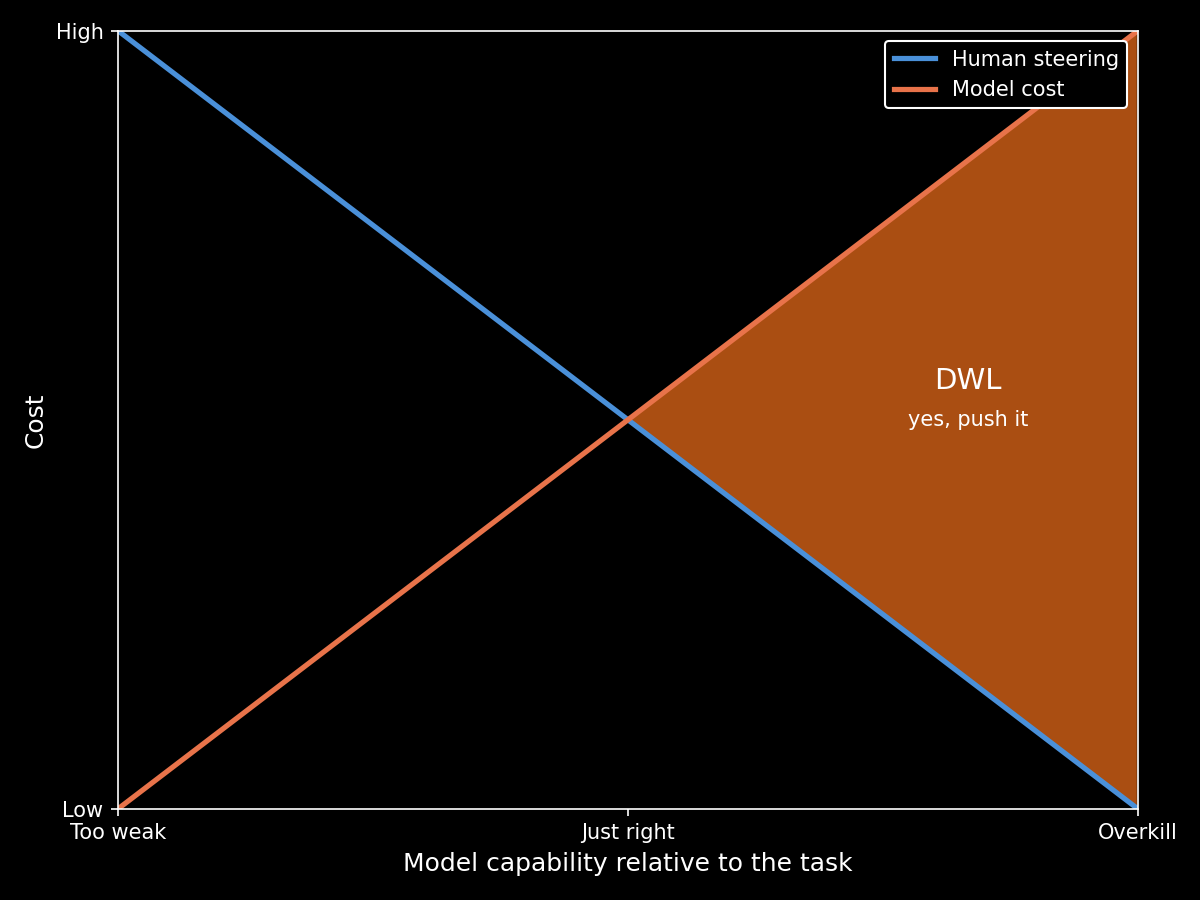
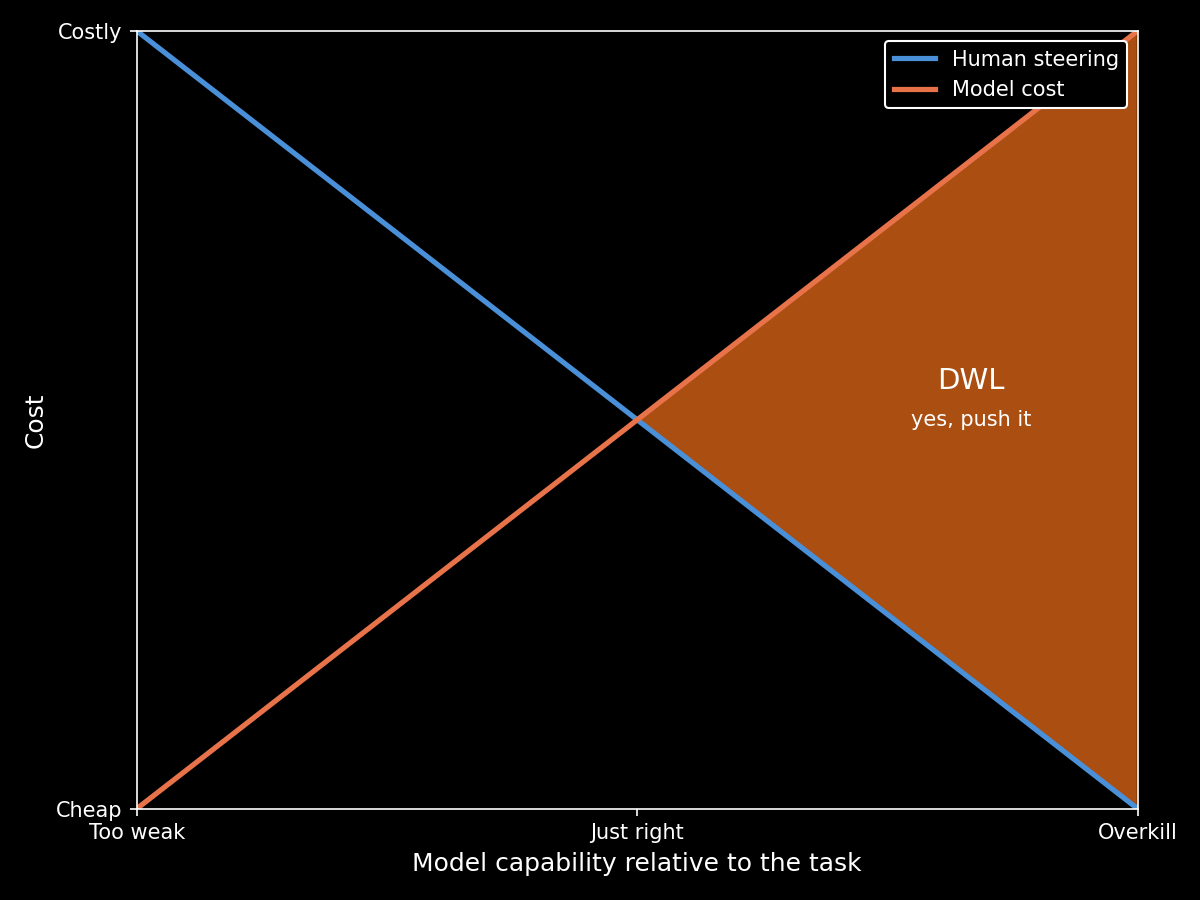
fix some typos, change axis titles, some further thoughts

diff --git a/blog/capabilities/index.html b/blog/capabilities/index.html
@@ -3,7 +3,7 @@
 <head>
     <meta charset="utf-8"/>
     <meta name="viewport" content="width=device-width, initial-scale=1"/>
-    <meta name="source-hash" content="03a15cfab1483d7d"/>
+    <meta name="source-hash" content="13e54250177813ef"/>
     <title>Capabilities</title>
     <script src="/dist/theme.js"></script>
     <script>try { localStorage.setItem('locale', 'en'); } catch (e) {}</script>
@@ -83,7 +83,7 @@
     
     <article id="post-content"><p>I attended an economics class in Berkeley during my freshman year in San Francisco. A friend studying there invited me to go visit. He had to do something through the afternoon and left me in one of the halls. At the time I thought I wanted to do economics, so I was glad to find out one of the lectures in that hall was Berkeley&#39;s microeconomics course, ECON 100A, and decided to attend it during the Spring.</p>
 <p>Ironically, the more I studied economics, the more skeptical I felt about it as a social science. I found its theories too constrained and based on unreasonable assumptions.</p>
-<p>It was nevertheless a fun subject to study. I have hundreds of pages from notes I took on an oversized drawing tablet plugged into my computer that must&#39;ve looked the silliest set-up of anyone in the hall. </p>
+<p>It was nevertheless a fun subject to study. I have hundreds of pages of notes I took on an oversized drawing tablet plugged into my computer that must&#39;ve looked the silliest set-up of anyone in the hall. </p>
 <p>My favorite concept I learned in that class is dead-weight loss, or DWL for brevity. Feel free to skip this section if you&#39;re already familiarized (<a href="#after-dwl">click here</a>). </p>
 <p>Imagine you have a seller - say, a business - and many buyers that want to buy a good from that seller. We assume the seller wants to earn the largest amount of money possible and there are many buyers that can each afford the product at a different price point. </p>
 <p>How does that good get priced? Some buyers might be willing to pay more for it than others, so the seller could set prices high. This seems reasonable, but if 8 buyers were able to pay $12 each while 2 were able to pay $40, setting the price of the good to $40 is a <em>net</em> loss at $80, as pricing it at $12 would net $96, leaving a $16+ difference on the table. Not to mention the social effects making the good available to more people might have<sup><a id="footnote-ref-1" href="#footnote-1" data-footnote-ref aria-describedby="footnote-label">1</a></sup>. </p>
@@ -109,46 +109,52 @@
 <p>Ok, so why am I writing about DWL? I see some parallels between ideas in DWL Minimization (the use of calculus to find points of equilibria for different supply and demand curves) and the current paradigms of coding agents. </p>
 <p>I work extensively with coding agents. Almost every day I&#39;m prompting, reviewing code, etc<sup><a id="footnote-ref-3" href="#footnote-3" data-footnote-ref aria-describedby="footnote-label">3</a></sup>. </p>
 <p>I&#39;ve observed an inverse relationship between the skill needed by a human to accomplish a task and how good a model is. </p>
-<p>For example, if you&#39;re working with a frontier model, it&#39;s generally sufficient to ask for what you want. &quot;Fix this bug&quot;, &quot;Add X feature&quot;, etc. Working with small models (in the 10-100B parameters range) requires hand holding. Prompts need to be longer and specific because otherwise the models get lost in thought and churn their context windows before doing anything useful.</p>
+<p>For example, if you&#39;re working with a frontier model, it&#39;s generally sufficient to ask for what you want. &quot;Fix this bug&quot;, &quot;Add X feature&quot;, etc. Working with small models (in the 10-100B parameter range) requires handholding. Prompts need to be longer and specific because otherwise the models get lost in thought and churn their context windows before doing anything useful.</p>
 <p>In other words: when a model is bad/limited at a task, humans supplement its deficiency with their own skills and steering. This is currently true for any task that frontier models aren&#39;t good at or when using handicapped models. It&#39;s part of why open-weight models aren&#39;t as big of a threat as they may seem in cybersecurity and biology. You still need knowledgeable humans to get the most out of them, at least for now.  </p>
+<p>This relationship also means less-skilled individuals can use the models to do work that previously required extensive training and experience, in the cases where human input is minimal or closer to supervision than steering. </p>
+<p><a href="https://cendyne.dev/posts/2026-10-11-fable-took-my-jorb.html">This</a> blog post by a developer laid off due to AI describes how their company chose to do layoffs because <em>&quot;AI assistance raised the capability of work for the less passionate, less experienced, and less costly workforce&quot;</em>. </p>
+<p>This isn&#39;t a new phenomenon. It&#39;s similar to how sewing machinery made jobs traditionally done by hand accessible to anyone, anywhere, who knew how to operate it, permitting offshoring in the &#39;60s. </p>
+<p>It&#39;s the reason why hiring for engineering jobs is shifting from being technically focused to highlighting traditionally undervalued skills, as I discuss toward the end of the post.</p>
 <p>We can map these concepts onto the first graph if we swap the Demand curve with Human steering and the Supply curve with Model cost. I assume more capable models are more expensive.</p>
+<p>When I write &quot;cost,&quot; I&#39;m talking about the compute needed to run an instance of a model. Bigger models are generally better and require more compute to run. </p>
+<p>I&#39;ll call it &quot;cost&quot; in the blog because it&#39;s easier to digest. Do note that compute and monetary cost will map one-to-one when the labs stop subsidizing tokens<sup><a id="footnote-ref-4" href="#footnote-4" data-footnote-ref aria-describedby="footnote-label">4</a></sup>. The plots assume they map one-to-one. </p>
 <p>The x-axis represents how capable a model is relative to the task: at the left, the model is too weak for it and cheap. At the right, it&#39;s overkill and expensive. The y-axis represents what you pay. The height of the human line is how much steering the model needs from you, as the height of the model line is what the model costs. The more capable the model, the less steering it needs and the more it costs.  </p>
 <p><img src="/blog/assets/figures/en/human-model-curves.png" alt="Human steering and model cost plotted against how capable the model is relative to the task." title="Human Steering and Model Cost"></p>
-<p>A simple example to illustrate DWL in this graph is when frontier models are used for trivial work that a smaller model could do. E.g., changing the copy in a page or running trivial git commands (when was the last time you prompted &#39;yes, push it&#39;?). </p>
+<p>A simple example to illustrate DWL in this graph is when frontier models are used for trivial work that a smaller model could do. E.g., changing the text on a page or running trivial git commands (when was the last time you prompted &#39;yes, push it&#39;?). </p>
 <p><img src="/blog/assets/figures/en/human-model-overreliance.png" alt="Deadweight loss on the right side of the human steering and model cost graph, where a frontier model is used for a trivial task." title="Deadweight Loss From an Overpowered Model"></p>
 <p>The economic argument against this is obvious: you&#39;re using frontier tokens for trivial tasks. Ideally, you&#39;d want to save the cost.</p>
-<p>The practical argument is that if token spend wasn&#39;t a concern, it would probably be faster if you used a smaller model. Like if Cursor&#39;s Composer did it rather than have Astra think for a minute. </p>
-<p>And even if your very smart model was ultra fast, that is expensive right now, so the economical argument still holds: others <em>could</em> do the same thing just as fast for cheaper if we had the systems to transfer context efficiently and on the spot.</p>
+<p>The practical argument is that if token spend wasn&#39;t a concern, it would probably be faster if you used a smaller model. Like if Cursor&#39;s Composer did it in 10 seconds rather than have Astra think for a minute. </p>
+<p>Even if your smart model was ultra fast, that is very expensive right now, so the economic argument still holds: others <em>could</em> do the same thing just as fast for cheaper if we had the systems to transfer context efficiently and on the spot. It&#39;s irrational not to save the cost (unfortunately, humans are <em>very</em> irrational).</p>
 <p>I see this mattering in the short to medium term but not the long term. </p>
-<p>When token subsidies stop, a system to auto-route prompts and tasks will become valuable to save unnecessary spending and time. Both for employees using AI and systems within companies that are heavily token-subsidized<sup><a id="footnote-ref-4" href="#footnote-4" data-footnote-ref aria-describedby="footnote-label">4</a></sup>. </p>
+<p>When token subsidies stop, a system to auto-route prompts and tasks will become valuable to save unnecessary spending and time. Both for employees using AI and systems within companies that are heavily token-subsidized<sup><a id="footnote-ref-5" href="#footnote-5" data-footnote-ref aria-describedby="footnote-label">5</a></sup>. </p>
 <p>Long-term, I expect frontier intelligence to become too cheap to meter and very fast. If the labs maintain token subsidies until that happens, it&#39;ll be less of an issue. </p>
-<p>We&#39;ve seen this to be true empirically when labs release smaller versions of their frontier models (Fable, GPT 6.1 Sol) that are similarly capable for much cheaper. </p>
-<p>I still think a &quot;DWL-optimized harness&quot; will be useful when intelligence diffuses to the economy and token usage grows by many magnitudes. Most tasks will be done for nickles, if the infrastructure enables it. I see three technical challenges in the way:</p>
+<p>We&#39;ve seen this to be true empirically when labs release smaller versions of their frontier models (Fable from Mythos, GPT 6.1 Sol from Astra) that are similarly capable for cheaper. </p>
+<p>I still think a &quot;DWL-optimized harness&quot; will be useful while intelligence diffuses to the economy and token usage grows by many orders of magnitude. It will make most tasks near free, fast, runnable on edge hardware<sup><a id="footnote-ref-6" href="#footnote-6" data-footnote-ref aria-describedby="footnote-label">6</a></sup>, and routable to the cloud when necessary. I see three technical challenges in the way:</p>
 <ul>
 <li>Transferring context efficiently: how to transfer context between models at as close to zero cost and latency as possible. This is important for individual tasks and threads.</li>
-<li>Parallelism: if many models are doing many tasks, how can inference providers maximize GPU utilization and KV Cache / model weights offloading and reloading so every watt of compute is utilized constantly.</li>
+<li>Parallelism: if many models are doing many tasks, how can inference engines maximize GPU utilization and KV Cache / model weights offloading and reloading so every watt of compute is utilized constantly.</li>
 <li>Model Profiling: you don&#39;t need to route requests each time if you already know what models sit at equilibria. To my knowledge, there isn&#39;t an all-purpose toolbench to do this yet.</li>
 </ul>
 <p>I expect that while intelligence is subsidized, companies and individuals will keep using frontier models because it feels like the safe choice and requires less steering. Budget-conscious organizations will make their own evals and perhaps even RL small models on them (like <a href="https://x.com/RampLabs/status/2052447438795833506">Ramp</a> did). </p>
-<p>But to diffuse AI into the wider economy, much work needs to be done on simple to use optimizers that small and medium sized organizations can use to save on their token spend, both for individuals within an organization and for specific tasks. </p>
-<p>Paraphrased: Jev might be very cheap but your average store clerk or non-profit worker isn&#39;t gonna get an API key and make an eval to see if it beats Astra at their classification task. Hence the need for diffusion companies.  </p>
-<p>In the graph, the equilibria makes sense if you think about it as the model with the best speed, price, and intelligence for the task. Getting there takes human effort: setting up the infrastructure and evals to find that model (both pre-selecting it or changing it at runtime). Whereas using a frontier model avoids you the work but costs a lot.</p>
+<p>But to diffuse AI into the wider economy, much work needs to be done on simple-to-use optimizers that small and medium-sized organizations can use to save on their token spend, both for individuals within an organization and for specific tasks. </p>
+<p>Paraphrased: Jev might be very cheap but your average store clerk or non-profit worker isn&#39;t gonna get an API key and make an eval to see if it beats Astra at their classification task. They&#39;d rather press a button or ask their agent and see the results to choose from.</p>
+<p>In the graph, the equilibrium makes sense if you think about it as the model with the best speed, price, and intelligence for the task. Getting there takes human effort: setting up the infrastructure and evals to find that model (both pre-selecting it or changing it at runtime). Whereas using a frontier model saves you the work but costs a lot.</p>
 <p><img src="/blog/assets/figures/en/human-model-equilibrium.png" alt="Equilibrium between human steering and model cost, where the model is just right for the task." title="Equilibrium Between Human Steering and Model Cost"></p>
 <p>I expect this to change with harnesses that auto-route and simpler infrastructure for evaluating and training task-specific models. It is also nice that this is a defined engineering effort. If we get it right once, everyone benefits.</p>
 <p>What about DWL on the left side of the graph?</p>
 <p>I was recently experimenting with the Qwen family of models, running them locally on my computer with Ollama. It was disappointing. They know a lot and can pull off impressive tricks for a small model, but as soon as you throw a real task at them, they blow their context budgets overthinking unnecessary details.</p>
 <p><img src="/blog/assets/figures/en/human-model-underreliance.png" alt="Deadweight loss on the left side of the human steering and model cost graph, where a small model needs heavy human guidance." title="Deadweight Loss From an Underpowered Model"></p>
 <p>I could only get them to do what I wanted by pointing out the exact lines of code they had to look at. I even had to change some code by hand because even though I&#39;d tell them five times in a row to execute the change, it just thought, and thought, until its context overflowed. </p>
-<p>Another dimension the graph doesn&#39;t capture is time<sup><a id="footnote-ref-5" href="#footnote-5" data-footnote-ref aria-describedby="footnote-label">5</a></sup>. It took me considerably longer to finish my project with Qwen because it needed so much handholding. I knew frontier models would&#39;ve been done in way less time. It also doesn&#39;t capture the difference in mental load: it is so much easier to prompt your way through. You don&#39;t really need to think. </p>
+<p>Another dimension the graph doesn&#39;t capture is time<sup><a id="footnote-ref-7" href="#footnote-7" data-footnote-ref aria-describedby="footnote-label">7</a></sup>. It took me considerably longer to finish my project with Qwen because it needed so much handholding. I knew frontier models would&#39;ve been done in way less time. It also doesn&#39;t capture the difference in mental load: it is so much easier to prompt your way through. You don&#39;t really need to think. </p>
 <p>Though, in my case, I chose to work my way through it because I wanted to experiment. In the real world, DWL on the left is visible on tasks that the models aren&#39;t good at <em>yet</em>. The odd finance benchmarks, ML research benchmarks, and computer use tasks. You still need people reviewing and steering the model&#39;s outputs. </p>
-<p>If accuracy can be quantified and the task is economically valuable, they will be conquered eventually, likeliest first at the frontier, shifting to the right. This is true of tasks where labs and startups have an interest to introduce automation. It&#39;s part of the diffusion process. </p>
+<p>If accuracy can be quantified and the task is economically valuable, it will be conquered eventually, likeliest first at the frontier, shifting to the right. This is true of tasks where labs and startups have an interest in introducing automation. It&#39;s part of the diffusion process. </p>
 <p>Last, the analogy doesn&#39;t capture some qualitative aspects of models.</p>
 <p>Like how I&#39;d rather use Claude for anything conversational, or Codex for computer use. It doesn&#39;t capture how people begin to trust that a model will get it right 90% of the time and use it for specific work.</p>
 <p>It discounts qualitative differences in the character of different model lines. This is partly reconciled if we think of the x-axis as a model family, e.g., Haiku being underpowered, Sonnet generally balanced, and Opus often overkill.</p>
 <p>Together, both parts of the graph paint a cohesive story: the frontier will lay the groundwork at the toughest challenges in an expensive, inefficient way, while diffusion makes them economically viable and fast.</p>
 <p>I see two paths going forward for the future of work:</p>
 <ul>
-<li>Skills that can not be optimized against (yet) will become increasingly valuable. E.g., interpersonal communication, relationship building.</li>
+<li>Skills that cannot be optimized against (yet) will become increasingly valuable. E.g., interpersonal communication, relationship building.</li>
 <li>If we do optimize everything optimizable (though I expect this to take a long while), we&#39;ll make different problems for ourselves that 
 require skills outside the scope of optimization (see <a href="https://asteriskmag.com/issues/15/after-work-we-ll-have-each-other">this</a> essay).</li>
 </ul>
@@ -160,16 +166,22 @@ require skills outside the scope of optimization (see <a href="https://asteriskm
 <p>Ideally, each customer would be charged the maximum they can pay. This is referred to as first degree pricing. But often sellers don&#39;t know what that maximum price is, and instead offer many options at different tiers (e.g. 1st class, premium economy, economy) so the buyer chooses for themselves. This is referred to as second degree pricing. Third degree pricing forces customers to segment by making the quality gap between the options large or enforcing tiers (e.g. student discounts). They all aim to extract as much of what the customer can pay for a good from them, which is referred to as their surplus. <a href="#footnote-ref-1" data-footnote-backref aria-label="Back to reference 1">↩</a></p>
 </li>
 <li id="footnote-2">
-<p>Though, it follows similar rules. If you study economics further, I encourage you to learn about the concept of the &quot;invisible hand&quot;. TLDR: markets minimize DWL on their own because inefficient arrangements will get outcompeted or outpriced by an incumbent. But I won&#39;t spoil it for you. Go read!  <a href="#footnote-ref-2" data-footnote-backref aria-label="Back to reference 2">↩</a></p>
+<p>Though, it follows similar rules. If you study economics further, I encourage you to learn about the concept of the &quot;invisible hand&quot;. TLDR: markets minimize DWL on their own because inefficient arrangements will get outcompeted or outpriced by a competitor. But I won&#39;t spoil it for you. Go read!  <a href="#footnote-ref-2" data-footnote-backref aria-label="Back to reference 2">↩</a></p>
 </li>
 <li id="footnote-3">
 <p>1 Billion tokens a day keeps the doctor away.   <a href="#footnote-ref-3" data-footnote-backref aria-label="Back to reference 3">↩</a></p>
 </li>
 <li id="footnote-4">
-<p>How many startups would be scrambling if the labs took away token subsidies today? Seriously. I was spending 6 figures in tokens at a previous startup (in API costs) every month. Had those been billed, it would&#39;ve been like getting my salary paid twice! For a startup this might be OK, but at the scale of large companies or AI-native organizations, this&#39;d be a huge financing issue. Ajeya Cotra talked about this <a href="https://www.youtube.com/watch?v=Z19UEZHJzAg">here</a>. In the future, some money will be directed towards buying API credits or GPUs instead of paying humans because intelligence will be cheaper and faster. <a href="#footnote-ref-4" data-footnote-backref aria-label="Back to reference 4">↩</a></p>
+<p>When the subsidies stop, I expect the rug pull to be similar to what happened when ridesharing apps stopped subsidizing rides and the true price was passed on to consumers. It wasn&#39;t pretty.  <a href="#footnote-ref-4" data-footnote-backref aria-label="Back to reference 4">↩</a></p>
 </li>
 <li id="footnote-5">
-<p>As Naval <a href="https://www.youtube.com/shorts/x-P119dx8xM">said</a>: &#39;waste tokens to save time&#39;. <a href="#footnote-ref-5" data-footnote-backref aria-label="Back to reference 5">↩</a></p>
+<p>How many startups would be scrambling if the labs took away token subsidies today? Seriously. I was spending 6 figures in tokens at a previous startup (in API costs) every month. Had those been billed, it would&#39;ve been like getting my salary paid twice! For a startup this might be OK, but at the scale of large companies or AI-native organizations, this&#39;d be a huge financing issue. Ajeya Cotra talked about this <a href="https://www.youtube.com/watch?v=Z19UEZHJzAg">here</a>. In the future, some money will be directed towards buying API credits or GPUs instead of paying humans because intelligence will be cheaper and faster. <a href="#footnote-ref-5" data-footnote-backref aria-label="Back to reference 5">↩</a></p>
+</li>
+<li id="footnote-6">
+<p>Some early glimpses of inference at the edge are starting to show, as Anthropic detailed in <a href="https://www.anthropic.com/research/self-replicating-ai">this</a> recent report. I expect phones and laptops to do most inference within this decade. <a href="#footnote-ref-6" data-footnote-backref aria-label="Back to reference 6">↩</a></p>
+</li>
+<li id="footnote-7">
+<p>As Naval <a href="https://www.youtube.com/shorts/x-P119dx8xM">said</a>: &#39;waste tokens to save time&#39;. <a href="#footnote-ref-7" data-footnote-backref aria-label="Back to reference 7">↩</a></p>
 </li>
 </ol>
 </section>

diff --git a/blog/assets/code/supply-demand-curves.py b/blog/assets/code/supply-demand-curves.py
@@ -32,7 +32,7 @@ HUMAN_MODEL_EQUILIBRIUM_TEXT = 'Equilibrium: model is just\nright for the task'
 HUMAN_MODEL_X_TICKS = (0, 50, 100)
 HUMAN_MODEL_X_TICK_LABELS = ('Too weak', 'Just right', 'Overkill')
 HUMAN_MODEL_Y_TICKS = (0, 100)
-HUMAN_MODEL_Y_TICK_LABELS = ('Low', 'High')
+HUMAN_MODEL_Y_TICK_LABELS = ('Cheap', 'Costly')
 HUMAN_MODEL_EQUILIBRIUM_TEXT_X = 57
 OVERRELIANCE_AUTONOMY = 100
 OVERRELIANCE_TEXT = 'yes, push it'

diff --git a/blog/posts/capabilities.md b/blog/posts/capabilities.md
@@ -2,7 +2,7 @@ I attended an economics class in Berkeley during my freshman year in San Francis
 
 Ironically, the more I studied economics, the more skeptical I felt about it as a social science. I found its theories too constrained and based on unreasonable assumptions.
 
-It was nevertheless a fun subject to study. I have hundreds of pages from notes I took on an oversized drawing tablet plugged into my computer that must've looked the silliest set-up of anyone in the hall. 
+It was nevertheless a fun subject to study. I have hundreds of pages of notes I took on an oversized drawing tablet plugged into my computer that must've looked the silliest set-up of anyone in the hall. 
 
 My favorite concept I learned in that class is dead-weight loss, or DWL for brevity. Feel free to skip this section if you're already familiarized ([click here](#after-dwl)). 
 
@@ -48,25 +48,37 @@ I work extensively with coding agents. Almost every day I'm prompting, reviewing
 
 I've observed an inverse relationship between the skill needed by a human to accomplish a task and how good a model is. 
 
-For example, if you're working with a frontier model, it's generally sufficient to ask for what you want. "Fix this bug", "Add X feature", etc. Working with small models (in the 10-100B parameters range) requires hand holding. Prompts need to be longer and specific because otherwise the models get lost in thought and churn their context windows before doing anything useful.
+For example, if you're working with a frontier model, it's generally sufficient to ask for what you want. "Fix this bug", "Add X feature", etc. Working with small models (in the 10-100B parameter range) requires handholding. Prompts need to be longer and specific because otherwise the models get lost in thought and churn their context windows before doing anything useful.
 
-In other words: when a model is bad/limited at a task, humans supplement its deficiency with their own skills and steering. This is currently true for any task that frontier models aren't good at or when using handicapped models. It's part of why open-weight models aren't as big of a threat as they may seem in cybersecurity and biology. You still need knowledgeable humans to get the most out of them, at least for now[^4].  
+In other words: when a model is bad/limited at a task, humans supplement its deficiency with their own skills and steering. This is currently true for any task that frontier models aren't good at or when using handicapped models. It's part of why open-weight models aren't as big of a threat as they may seem in cybersecurity and biology. You still need knowledgeable humans to get the most out of them, at least for now.  
+
+This relationship also means less-skilled individuals can use the models to do work that previously required extensive training and experience, in the cases where human input is minimal or closer to supervision than steering. 
+
+[This](https://cendyne.dev/posts/2026-10-11-fable-took-my-jorb.html) blog post by a developer laid off due to AI describes how their company chose to do layoffs because *"AI assistance raised the capability of work for the less passionate, less experienced, and less costly workforce"*. 
+
+This isn't a new phenomenon. It's similar to how sewing machinery made jobs traditionally done by hand accessible to anyone, anywhere, who knew how to operate it, permitting offshoring in the '60s. 
+
+It's the reason why hiring for engineering jobs is shifting from being technically focused to highlighting traditionally undervalued skills, as I discuss toward the end of the post.
 
 We can map these concepts onto the first graph if we swap the Demand curve with Human steering and the Supply curve with Model cost. I assume more capable models are more expensive.
+
+When I write "cost," I'm talking about the compute needed to run an instance of a model. Bigger models are generally better and require more compute to run. 
+
+I'll call it "cost" in the blog because it's easier to digest. Do note that compute and monetary cost will map one-to-one when the labs stop subsidizing tokens[^4]. The plots assume they map one-to-one. 
 
 The x-axis represents how capable a model is relative to the task: at the left, the model is too weak for it and cheap. At the right, it's overkill and expensive. The y-axis represents what you pay. The height of the human line is how much steering the model needs from you, as the height of the model line is what the model costs. The more capable the model, the less steering it needs and the more it costs.  
 
 ![Human steering and model cost plotted against how capable the model is relative to the task.](/blog/assets/figures/en/human-model-curves.png "Human Steering and Model Cost")
 
-A simple example to illustrate DWL in this graph is when frontier models are used for trivial work that a smaller model could do. E.g., changing the copy in a page or running trivial git commands (when was the last time you prompted 'yes, push it'?). 
+A simple example to illustrate DWL in this graph is when frontier models are used for trivial work that a smaller model could do. E.g., changing the text on a page or running trivial git commands (when was the last time you prompted 'yes, push it'?). 
 
 ![Deadweight loss on the right side of the human steering and model cost graph, where a frontier model is used for a trivial task.](/blog/assets/figures/en/human-model-overreliance.png "Deadweight Loss From an Overpowered Model")
 
 The economic argument against this is obvious: you're using frontier tokens for trivial tasks. Ideally, you'd want to save the cost.
 
-The practical argument is that if token spend wasn't a concern, it would probably be faster if you used a smaller model. Like if Cursor's Composer did it rather than have Astra think for a minute. 
+The practical argument is that if token spend wasn't a concern, it would probably be faster if you used a smaller model. Like if Cursor's Composer did it in 10 seconds rather than have Astra think for a minute. 
 
-And even if your very smart model was ultra fast, that is expensive right now, so the economical argument still holds: others *could* do the same thing just as fast for cheaper if we had the systems to transfer context efficiently and on the spot.
+Even if your smart model was ultra fast, that is very expensive right now, so the economic argument still holds: others *could* do the same thing just as fast for cheaper if we had the systems to transfer context efficiently and on the spot. It's irrational not to save the cost (unfortunately, humans are *very* irrational).
 
 I see this mattering in the short to medium term but not the long term. 
 
@@ -74,21 +86,21 @@ When token subsidies stop, a system to auto-route prompts and tasks will become 
 
 Long-term, I expect frontier intelligence to become too cheap to meter and very fast. If the labs maintain token subsidies until that happens, it'll be less of an issue. 
 
-We've seen this to be true empirically when labs release smaller versions of their frontier models (Fable, GPT 6.1 Sol) that are similarly capable for much cheaper. 
+We've seen this to be true empirically when labs release smaller versions of their frontier models (Fable from Mythos, GPT 6.1 Sol from Astra) that are similarly capable for cheaper. 
 
-I still think a "DWL-optimized harness" will be useful when intelligence diffuses to the economy and token usage grows by many magnitudes. Most tasks will be done for nickles, if the infrastructure enables it. I see three technical challenges in the way:
+I still think a "DWL-optimized harness" will be useful while intelligence diffuses to the economy and token usage grows by many orders of magnitude. It will make most tasks near free, fast, runnable on edge hardware[^6], and routable to the cloud when necessary. I see three technical challenges in the way:
 
 - Transferring context efficiently: how to transfer context between models at as close to zero cost and latency as possible. This is important for individual tasks and threads.
-- Parallelism: if many models are doing many tasks, how can inference providers maximize GPU utilization and KV Cache / model weights offloading and reloading so every watt of compute is utilized constantly.
-- Model Profiling: you don't need to route requests each time if you already know what models sit at equilibria. To my knowledge, there isn't an all-purpose toolbench to do this yet. 
+- Parallelism: if many models are doing many tasks, how can inference engines maximize GPU utilization and KV Cache / model weights offloading and reloading so every watt of compute is utilized constantly.
+- Model Profiling: you don't need to route requests each time if you already know what models sit at equilibria. To my knowledge, there isn't an all-purpose toolkit to do this yet. 
 
 I expect that while intelligence is subsidized, companies and individuals will keep using frontier models because it feels like the safe choice and requires less steering. Budget-conscious organizations will make their own evals and perhaps even RL small models on them (like [Ramp](https://x.com/RampLabs/status/2052447438795833506) did). 
 
-But to diffuse AI into the wider economy, much work needs to be done on simple to use optimizers that small and medium sized organizations can use to save on their token spend, both for individuals within an organization and for specific tasks. 
+But to diffuse AI into the wider economy, much work needs to be done on simple-to-use optimizers that small and medium-sized organizations can use to save on their token spend, both for individuals within an organization and for specific tasks. 
 
-Paraphrased: Jev might be very cheap but your average store clerk or non-profit worker isn't gonna get an API key and make an eval to see if it beats Astra at their classification task. Hence the need for diffusion companies.  
+Paraphrased: Jev might be very cheap but your average store clerk or non-profit worker isn't gonna get an API key and make an eval to see if it beats Astra at their classification task. They'd rather press a button or ask their agent and see the results to choose from.
 
-In the graph, the equilibria makes sense if you think about it as the model with the best speed, price, and intelligence for the task. Getting there takes human effort: setting up the infrastructure and evals to find that model (both pre-selecting it or changing it at runtime). Whereas using a frontier model avoids you the work but costs a lot.
+In the graph, the equilibrium makes sense if you think about it as the model with the best speed, price, and intelligence for the task. Getting there takes human effort: setting up the infrastructure and evals to find that model (both pre-selecting it or changing it at runtime). Whereas using a frontier model saves you the work but costs a lot.
 
 ![Equilibrium between human steering and model cost, where the model is just right for the task.](/blog/assets/figures/en/human-model-equilibrium.png "Equilibrium Between Human Steering and Model Cost")
 
@@ -102,11 +114,11 @@ I was recently experimenting with the Qwen family of models, running them locall
 
 I could only get them to do what I wanted by pointing out the exact lines of code they had to look at. I even had to change some code by hand because even though I'd tell them five times in a row to execute the change, it just thought, and thought, until its context overflowed. 
 
-Another dimension the graph doesn't capture is time[^6]. It took me considerably longer to finish my project with Qwen because it needed so much handholding. I knew frontier models would've been done in way less time. It also doesn't capture the difference in mental load: it is so much easier to prompt your way through. You don't really need to think. 
+Another dimension the graph doesn't capture is time[^7]. It took me considerably longer to finish my project with Qwen because it needed so much handholding. I knew frontier models would've been done in way less time. It also doesn't capture the difference in mental load: it is so much easier to prompt your way through. You don't really need to think. 
 
 Though, in my case, I chose to work my way through it because I wanted to experiment. In the real world, DWL on the left is visible on tasks that the models aren't good at *yet*. The odd finance benchmarks, ML research benchmarks, and computer use tasks. You still need people reviewing and steering the model's outputs. 
 
-If accuracy can be quantified and the task is economically valuable, they will be conquered eventually, likeliest first at the frontier, shifting to the right. This is true of tasks where labs and startups have an interest to introduce automation. It's part of the diffusion process. 
+If accuracy can be quantified and the task is economically valuable, it will be conquered eventually, likeliest first at the frontier, shifting to the right. This is true of tasks where labs and startups have an interest in introducing automation. It's part of the diffusion process. 
 
 Last, the analogy doesn't capture some qualitative aspects of models.
 
@@ -117,7 +129,7 @@ It discounts qualitative differences in the character of different model lines. 
 Together, both parts of the graph paint a cohesive story: the frontier will lay the groundwork at the toughest challenges in an expensive, inefficient way, while diffusion makes them economically viable and fast.
 
 I see two paths going forward for the future of work:
-- Skills that can not be optimized against (yet) will become increasingly valuable. E.g., interpersonal communication, relationship building.
+- Skills that cannot be optimized against (yet) will become increasingly valuable. E.g., interpersonal communication, relationship building.
 - If we do optimize everything optimizable (though I expect this to take a long while), we'll make different problems for ourselves that 
 require skills outside the scope of optimization (see [this](https://asteriskmag.com/issues/15/after-work-we-ll-have-each-other) essay).
 
@@ -125,12 +137,14 @@ In either case, we'll be better off from it. It will provide healthcare and educ
 
 [^1]: Ideally, each customer would be charged the maximum they can pay. This is referred to as first degree pricing. But often sellers don't know what that maximum price is, and instead offer many options at different tiers (e.g. 1st class, premium economy, economy) so the buyer chooses for themselves. This is referred to as second degree pricing. Third degree pricing forces customers to segment by making the quality gap between the options large or enforcing tiers (e.g. student discounts). They all aim to extract as much of what the customer can pay for a good from them, which is referred to as their surplus.
 
-[^2]: Though, it follows similar rules. If you study economics further, I encourage you to learn about the concept of the "invisible hand". TLDR: markets minimize DWL on their own because inefficient arrangements will get outcompeted or outpriced by an incumbent. But I won't spoil it for you. Go read! 
+[^2]: Though, it follows similar rules. If you study economics further, I encourage you to learn about the concept of the "invisible hand". TLDR: markets minimize DWL on their own because inefficient arrangements will get outcompeted or outpriced by a competitor. But I won't spoil it for you. Go read! 
 
 [^3]: 1 Billion tokens a day keeps the doctor away.  
 
-[^4]: This also means less-skilled individuals can now do work that previously needed extensive training and experience. [This](https://cendyne.dev/posts/2026-10-11-fable-took-my-jorb.html) blog post by a developer laid off due to AI describes how their company chose to do layoffs because *"AI assistance raised the capability of work for the less passionate, less experienced, and less costly workforce"*. This isn't a new phenomenon. It's similar to how sewing machinery made jobs traditionally done by hand accessible to anyone, anywhere, who knew how to operate it, permitting offshoring in the '60s. It's the reason why hiring for engineering jobs is shifting from being technically focused to highlighting traditionally undervalued skills, as I discuss toward the end of the post.
+[^4]: When the subsidies stop, I expect the rug pull to be similar to what happened when ridesharing apps stopped subsidizing rides and the true price was passed on to consumers. It wasn't pretty. 
 
 [^5]: How many startups would be scrambling if the labs took away token subsidies today? Seriously. I was spending 6 figures in tokens at a previous startup (in API costs) every month. Had those been billed, it would've been like getting my salary paid twice! For a startup this might be OK, but at the scale of large companies or AI-native organizations, this'd be a huge financing issue. Ajeya Cotra talked about this [here](https://www.youtube.com/watch?v=Z19UEZHJzAg). In the future, some money will be directed towards buying API credits or GPUs instead of paying humans because intelligence will be cheaper and faster.
 
-[^6]: As Naval [said](https://www.youtube.com/shorts/x-P119dx8xM): 'waste tokens to save time'.
+[^6]: Some early glimpses of inference at the edge are starting to show, as Anthropic detailed in [this](https://www.anthropic.com/research/self-replicating-ai) recent report. I expect phones and laptops to do most inference within this decade.
+
+[^7]: As Naval [said](https://www.youtube.com/shorts/x-P119dx8xM): 'waste tokens to save time'.
